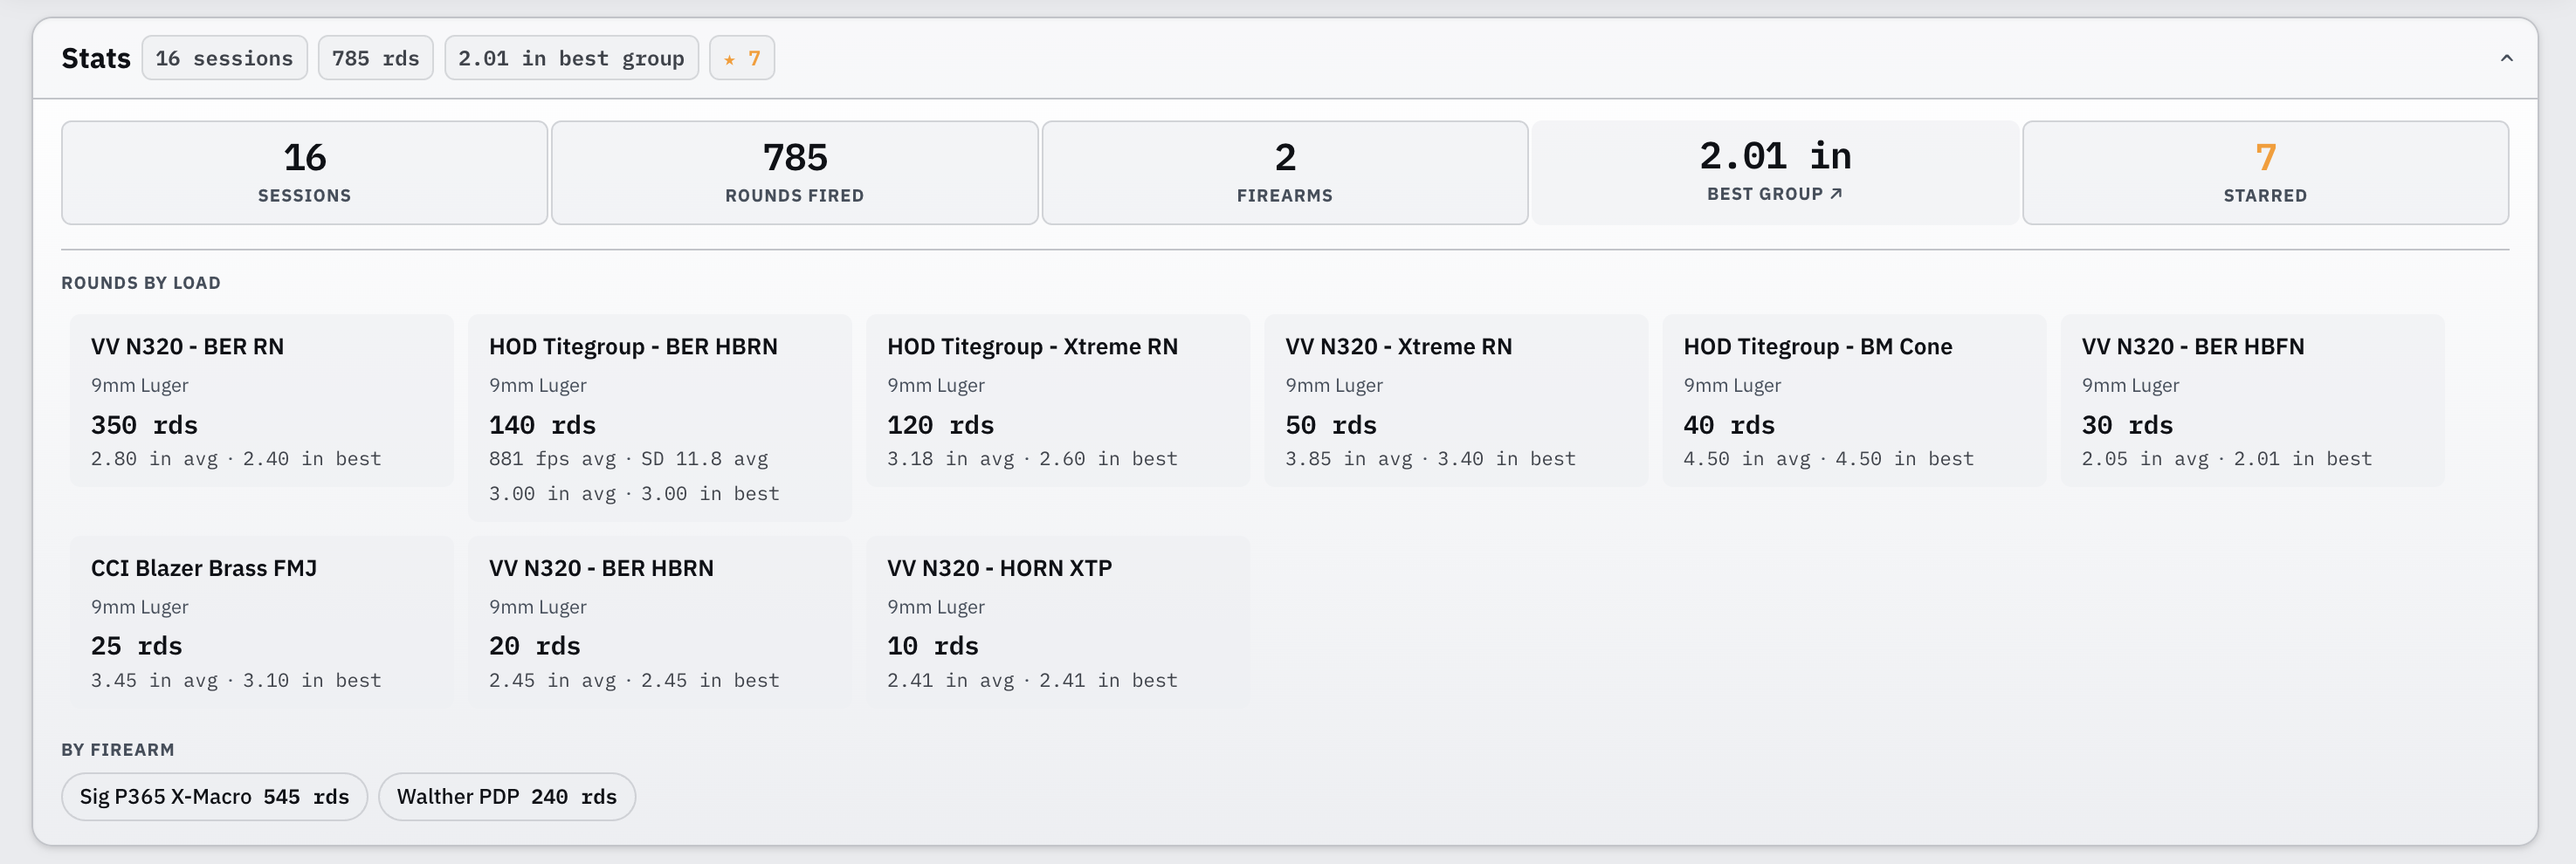
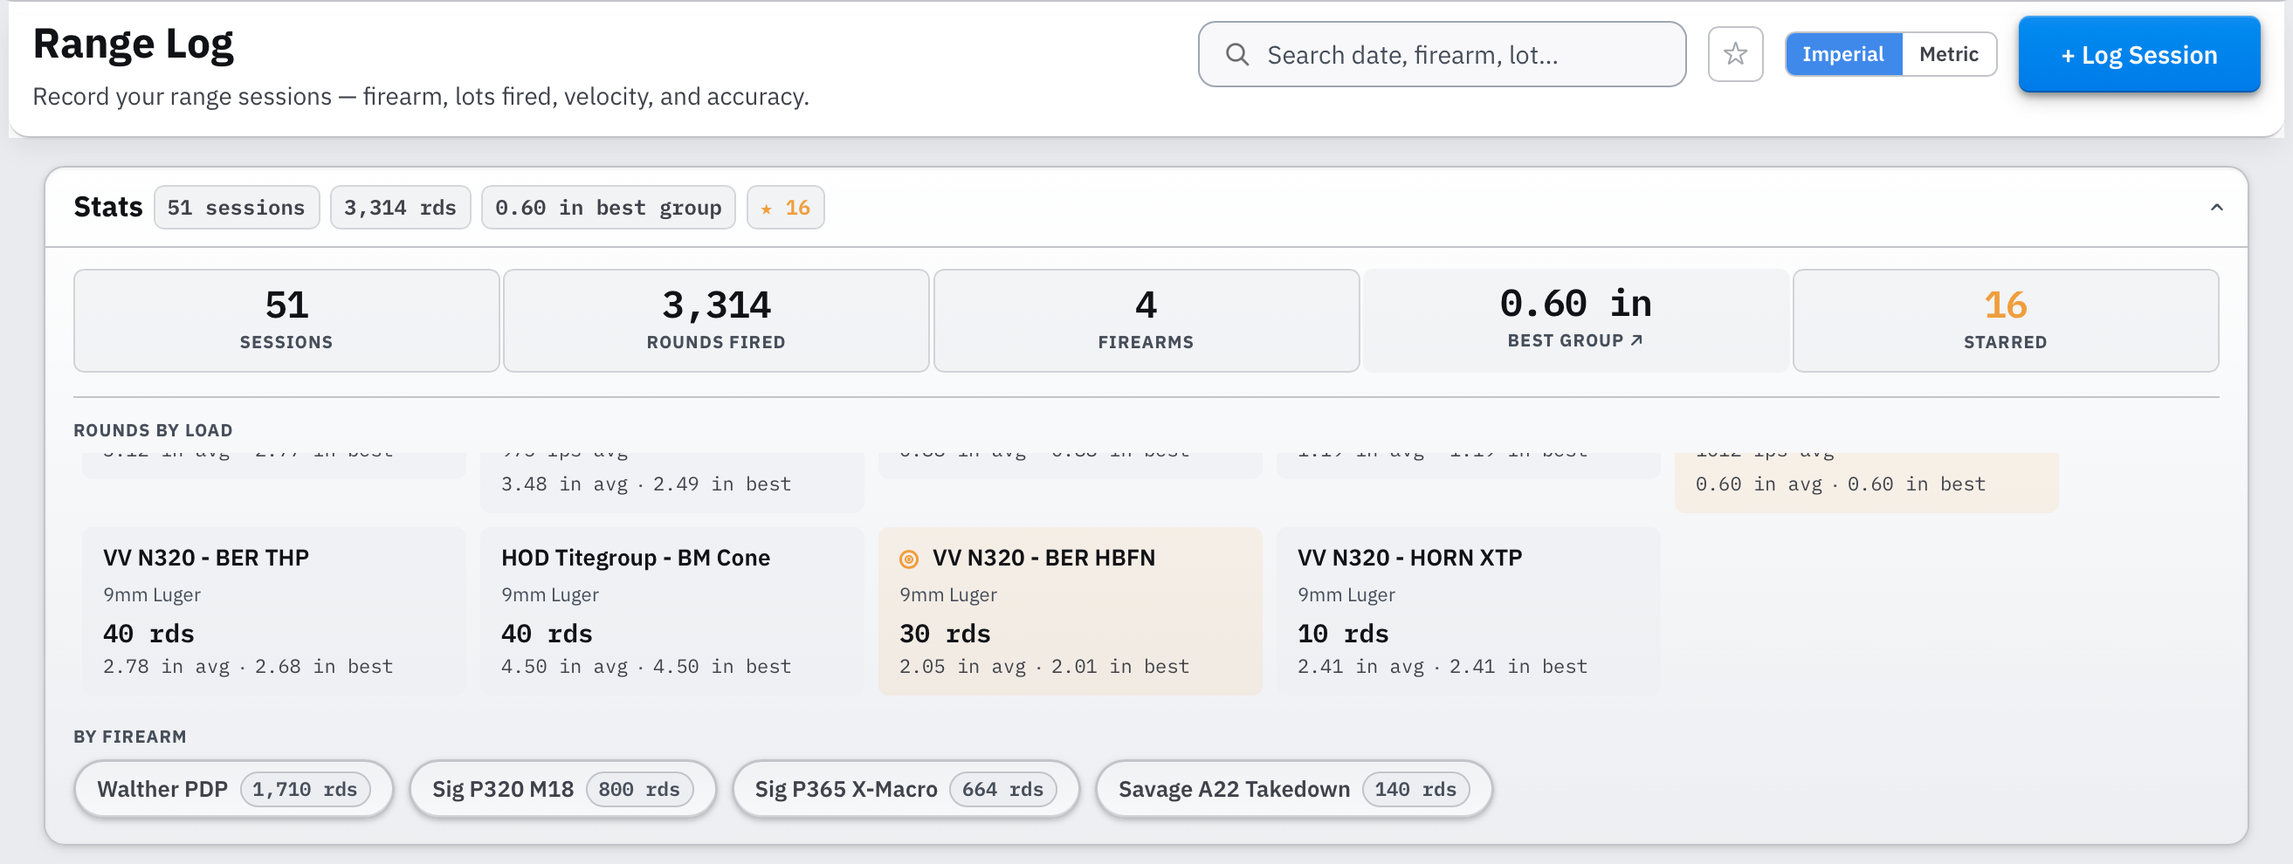
Updated for version 2.9.0

diff --git a/README.md b/README.md
@@ -1,4 +1,4 @@
-# Reloading Tracker 2.8.1: User Guide
+# Reloading Tracker 2.9.0: User Guide
 
 Reloading Tracker is your complete bench-to-range companion. It starts as a production log: define your loads, record every pressing session with a unique lot number, and print a label for every box on your shelf. And it grows with you from there.
 
@@ -230,6 +230,12 @@ Click **Save Load** or **Update Load** when done. The entry appears immediately 
 
 Click **Add Ammo** or the **+** button in the **Factory** section header. The Editor opens with **Factory Ammo** pre-selected. The form shows:
 
+**Stock** *(optional)*
+- Tracks how many rounds of this factory ammo you have left. Rather than typing a total directly, enter the number of boxes in **Add Boxes** and click **Add** - it accumulates into a running **Lifetime total** shown just below the field. To correct a mistake (e.g. you added a box twice), enter a negative number and click **Add** again; the lifetime total never drops below zero.
+- **Alert Below (boxes)**: optional threshold. When the rounds remaining fall to or below this many boxes, a **Low** badge appears on the card and in the table.
+- Remaining rounds are calculated automatically as *Lifetime total × Rounds per Box*, minus every round logged against this ammo in the Range Log - including sessions logged before you started tracking stock for it, so the count factors in your full shooting history, not just usage from today forward.
+- Leave **Add Boxes** untouched (lifetime total stays at 0) if you don't want to track stock for this ammo; the Stock display is hidden everywhere until you add at least one box.
+
 **Base Factory Price**
 - Price per box and rounds per box.
 
@@ -257,6 +263,10 @@ Click the **▸ / ▾** chevron on the left of the action buttons to expand a ca
 Use the **Search** box to filter cards by name, caliber, type, or component name.
 
 You can also switch between **Card** and **Table** views using the view toggle next to the search box. Card view shows the familiar expandable cards, while Table view gives you a denser list that is easier to scan when you have many entries.
+
+**Stock display**
+
+Factory ammo entries with stock tracking enabled (see [2.2](#22-adding-a-factory-ammo-entry)) show a **Stock** line on the card, or a **Stock** column in table view - both display rounds and boxes remaining together, e.g. *250 rds (5 boxes) left*. A **Low** badge appears once remaining stock falls to or below your configured **Alert Below** threshold. Hover (or focus) the Stock label to see the full breakdown in a tooltip: lifetime total purchased, rounds logged in the Range Log, and the resulting remainder. Entries with no boxes added yet show no Stock line at all.
 
 ![Screenshot: Expanded ammo card showing component breakdown](images/ammo-viewer.png)
 
@@ -734,7 +744,7 @@ After filling in the session header, add one or more **lots** to the session usi
 |------|-------------|
 | **From Journal** | The ammo was logged at the press in the Reloading Journal. Select the lot from the dropdown; charge and COAL fill in automatically. The rounds field pre-fills with the remaining (unfired) count from the journal, and the form will not let you log more rounds than are available. Depleted lots are hidden from the dropdown so you can never over-log a lot. |
 | **Reload** | A reload batch that was not logged in the Journal. Enter an optional lot number, select the reload recipe, and override charge or COAL if needed. |
-| **Factory** | Factory ammunition. Select from your defined factory entries. No charge or COAL fields are shown. |
+| **Factory** | Factory ammunition. Select from your defined factory entries. No charge or COAL fields are shown. For entries with [Stock tracking](#22-adding-a-factory-ammo-entry) enabled, the dropdown shows rounds available for each and won't let you log more than that; depleted entries are hidden from the dropdown, the same way journal lots are. Entries without stock tracking have no such limit. |
 
 ![Screenshot: Range Log add/edit form showing the lot mode toggle (From Journal / Reload / Factory) and lot entry fields](./images/range-log-add-form.png)
 
@@ -762,6 +772,9 @@ The **Imperial / Metric** toggle in the page header switches how velocity, group
 
 Sessions are displayed as rows in a list, most recent first. Click any row to **expand** it and see the full per-lot breakdown for that session.
 
+**Best group marking**: whichever lot holds the smallest group size for a given firearm is marked with a small gold bullseye icon directly on its lot badge - in both the collapsed row and the expanded detail view. This updates live as you log new sessions, so the marker always points to that firearm's current best.
+
+<!-- IMAGE MAY NEED UPDATING: best-group-per-firearm bullseye icon now appears on lot badges -->
 ![Screenshot: Range Log, expanded session row showing individual lot entries](./images/range-log-expanded.png)
 
 Each session row has action buttons on the right:
@@ -791,7 +804,6 @@ Click the **starred filter button** (☆) in the page header to toggle the list 
 
 The **statistics panel** at the top of the Range Log gives you an at-a-glance performance summary across all your recorded sessions. Click the bar to expand it.
 
-
 ![Screenshot: Range Log statistics panel expanded, showing KPI tiles and Rounds by Load cards with fps, SD, and group data](./images/range-log-stats.png)
 
 The panel has two sections:
@@ -800,20 +812,19 @@ The panel has two sections:
 
 | Tile | Meaning |
 |------|---------|
-| **Total Sessions** | Number of range sessions logged |
-| **Total Rounds** | Total rounds fired across all sessions |
+| **Sessions** | Number of range sessions logged |
+| **Rounds Fired** | Total rounds fired across all sessions |
 | **Firearms** | Number of distinct firearms used |
-| **Avg FPS** | Average muzzle velocity across all lots with velocity data |
-| **Best Group** | Smallest group size recorded, normalised to inches |
-| **Avg Group** | Average group size across all lots with group data, normalised to inches |
+| **Best Group** | Smallest group size recorded across all sessions, normalised to inches. Click to jump to that session. |
+| **Starred** | Number of starred sessions (shown once you have at least one) |
 
 **Rounds by Load**: a scrollable row of cards, one per distinct load or factory entry. Each card shows:
 
-- Load name and total rounds fired
+- Load name and caliber, with total rounds fired
 - Average fps and average SD (if velocity data was recorded for that load)
 - Average group size and best group size (if group data was recorded for that load)
 
-The cards let you compare performance across different loads at a glance; useful during load development to see which recipes are consistently grouping best or producing the most consistent velocity.
+Whichever load produced the best (smallest) group **for its caliber** is marked with the same gold bullseye icon used elsewhere, so you can spot your standout recipe within each caliber at a glance. The cards let you compare performance across different loads more broadly too; useful during load development to see which recipes are consistently grouping best or producing the most consistent velocity.
 
 ---
 
@@ -1098,7 +1109,7 @@ Use the **Load** filter at the top to narrow the table to a single load. When a 
 
 #### Best row indicator
 
-When a load is shown with two or more rows, the row with the lowest Group value is highlighted with a ★ badge in the Group column, making it easy to spot your standout session at a glance.
+The row with the lowest Group value for each load is marked with a small gold bullseye icon in the Group column (the same icon used for best-group marking in the Range Log), making it easy to spot your standout session at a glance. The whole row is also lightly highlighted.
 
 #### Opening a target from the table
 
@@ -1337,13 +1348,13 @@ The tour can be dismissed at any time and is designed to help first-time users g
 The top-right area of the header includes both an **About** button and a **Settings** button.
 
 **Settings**
-- **Follow Time Of Day**: automatically uses the light theme during the day and dark theme in the evening
+- **Follow System Theme**: automatically matches your device's light or dark mode setting, and switches live if you change it while the app is open
 - **Currency Symbol**: changes the currency shown across cards, tables, and analysis views
 - **Cost Per Round Decimals**: controls how many decimal places are shown for per-round costs
 
 ![Screenshot: Settings showing the configuration of the application](./images/app-settings.png)
 
-The application still defaults to the **dark theme** on first launch. If you enable **Follow Time Of Day**, the app will switch themes automatically based on the time of day. You can still use the theme toggle in the header to return immediately to manual light/dark mode.
+The application still defaults to the **dark theme** on first launch. If you enable **Follow System Theme**, the app switches themes automatically to match your operating system's setting. You can still use the theme toggle in the header to return immediately to manual light/dark mode.
 
 ---
 
@@ -1373,6 +1384,7 @@ In **Settings**, the **Auto-backup on import** toggle controls whether the appli
 ## 13. Tips & Notes
 
 - **All data is stored locally.** No account or internet connection is required. Data is saved automatically in the browser/app storage every time you make a change.
+- **The app reopens on your last tab.** Whichever tab you had open when you last closed or reloaded the app is remembered and restored automatically, so you don't land back on My Ammo every time.
 - **Brass reuse count matters.** Setting a realistic reuse count (commonly 5–10 reloads per case) significantly lowers your per-round brass cost. A count of 1 treats every case as single-use.
 - **State Excise Tax (SET).** Factory ammunition in some US States is subject to a state excise tax in addition to state and local sales tax. The default value is pre-filled for you.
 - **Fix Fee (FF).** Some US States have an additional fix fee (normally associated to a background check) on any ammunition purchases. This is a fixed fee applied to the entire purchase and its cost is diluted over all the rounds purchased.
@@ -1398,6 +1410,8 @@ In **Settings**, the **Auto-backup on import** toggle controls whether the appli
 - **Range Log notes for load development.** Use the per-lot notes field in the Range Log to record group sizes, point of impact shifts, felt recoil, or function issues. Over time this builds a development log you can cross-reference when adjusting a recipe.
 - **Star your reference loads.** Once you find a load that functions and groups well, star that range session. The starred filter gives you a quick shortlist when you are deciding what to press next. Starring a session also stars the linked journal lots automatically, so both records are flagged together.
 - **Remaining Rounds keeps your shelf count accurate.** Log rounds against journal lots in the Range Log using **From Journal** mode and the Remaining column updates automatically. Lots that reach zero are marked Depleted and hidden from the From Journal dropdown so you cannot accidentally log against an empty lot.
+- **Factory ammo stock is a lifetime total, not a current count.** Each time you buy more, enter the number of boxes in **Add Boxes** and click **Add** - it accumulates. Don't try to type your current on-hand count directly; the app already subtracts every round you've logged in the Range Log automatically, including sessions recorded before you started tracking stock for that ammo.
+- **Correcting a factory stock mistake.** Entered the wrong number of boxes? Enter a negative number in **Add Boxes** and click **Add** again to bring the lifetime total back down. There's no separate "edit" for the total - amendments always go through the same Add control.
 - **Archive completed lots to keep the journal tidy.** Once a lot is fully fired and you no longer need it in the active list, archive it. The lot stays in your history and still contributes to statistics; it just does not appear in the main journal table. Restore it at any time if you need to reference or reprint the label.
 - **Unit system preference is shared.** The Imperial / Metric toggle in the Range Log header controls how velocity, distance, and group size are displayed there, in the add/edit form, and in the Target Comparison table. Switch it once in any of those views and it stays set everywhere until you toggle it again.
 - **Range Log data is included in export files.** When you export your library, your full range log history is included. Import it on another machine and your field records move with you.
